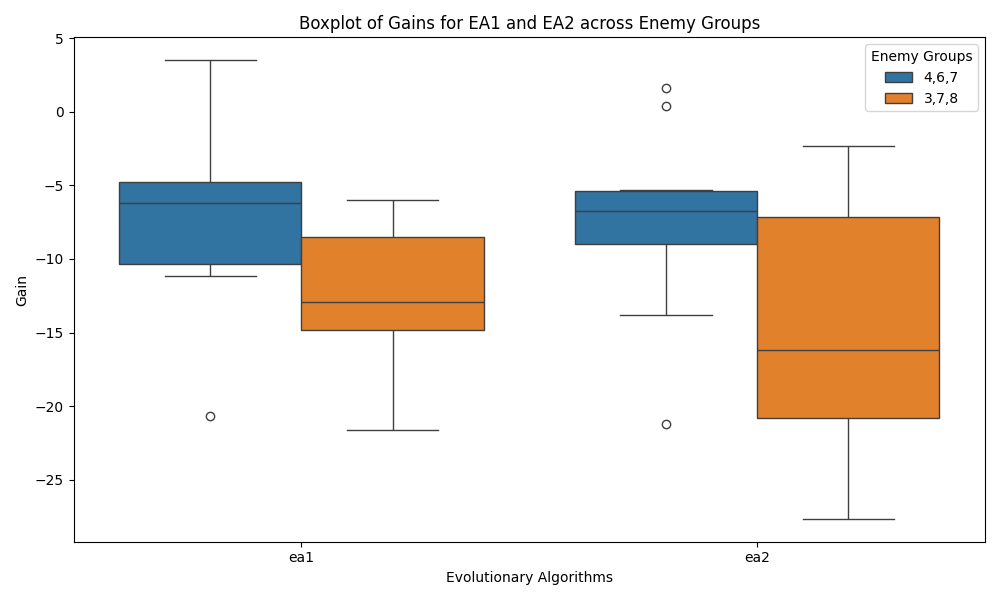
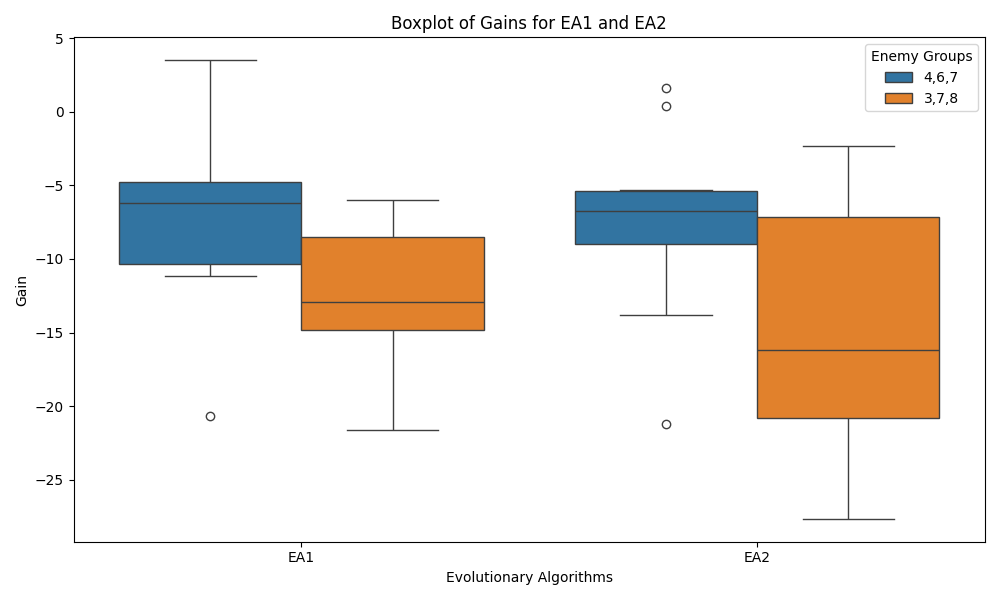
Box plot tweaks

Changed region(s): [[0.279, 0.03, 0.775, 0.06], [0.744, 0.9, 0.775, 0.96], [0.279, 0.9, 0.31, 0.96]]

diff --git a/visualization/T2box-plot.py b/visualization/T2box-plot.py
@@ -18,7 +18,7 @@ for file_path in file_paths:
     df = pd.read_csv('../testing/' + file_path)
 
     # Extract EA and enemy group information from the file name
-    ea = file_path.split('_')[1]  # Extract EA1 or EA2
+    ea = (file_path.split('_')[1]).upper()  # Extract EA1 or EA2
     enemy_group = file_path.split('_')[2].replace('.csv', '')  # Extract enemy group (3,7,8) or (4,6,7)
 
     # Add EA and enemy group columns to the DataFrame
@@ -31,7 +31,7 @@ for file_path in file_paths:
 # Create the box plot
 plt.figure(figsize=(10, 6))
 sns.boxplot(x='EA', y='gain', hue='Enemy Group', data=data_combined, hue_order=['4,6,7', '3,7,8'])
-plt.title('Boxplot of Gains for EA1 and EA2 across Enemy Groups')
+plt.title('Boxplot of Gains for EA1 and EA2')
 plt.xlabel('Evolutionary Algorithms')
 plt.ylabel('Gain')
 plt.legend(title='Enemy Groups')
